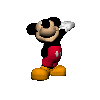
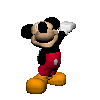
cleanup and more fixes

Changed region(s): [[0.21, 0.15, 0.78, 0.96], [0.57, 0.18, 0.6, 0.21], [0.54, 0.15, 0.57, 0.18]]

diff --git a/tools/sundae/sundae.js b/tools/sundae/sundae.js
@@ -232,26 +232,30 @@ var sundae = {};
             var cCtx = c.getContext('2d');
             var cPix = cCtx.createImageData(c.width, c.height);
             var len = bPix.length;
-            var row = 400;
+            
             var col = 0;
-            for (var j=0; j < len; j+=4,col+=4){
-                if (Math.abs(bPix[len+col-row] - aPix[j]) < valueEpsilon  &&
-                    Math.abs(bPix[len+col-row + 1] - aPix[j+ 1]) < valueEpsilon &&
-                    Math.abs(bPix[len+col-row + 2] - aPix[j + 2]) < valueEpsilon &&
-                    Math.abs(bPix[len+col-row + 3] - aPix[j + 3]) < valueEpsilon){
-                    cPix.data[j] = cPix.data[j+1] = cPix.data[j+2] = cPix.data[j+3] = 0;
-                } //Pixel difference in c
-                else{
-                    cPix.data[j] = 255;
-                    cPix.data[j+1] = cPix.data[j+2] = 0;
-                    cPix.data[j+3] = 255;
-                    failed = true;                 
-                    pixelsOff++;
-                }
-                if(col == 400){col = 0;row += 400;}                             
+            var row = (4 * c.width * c.height) - (4 * c.width);
+            
+            for (var j = 0; j < len; j += 4, col+=4){
+              if(col === 4 * c.width){
+                col = 0;
+                row -= 4 * c.width;
+              }
+              if (Math.abs(bPix[row+col] - aPix[j]) < valueEpsilon  &&
+                  Math.abs(bPix[row+col + 1] - aPix[j+ 1]) < valueEpsilon &&
+                  Math.abs(bPix[row+col + 2] - aPix[j + 2]) < valueEpsilon &&
+                  Math.abs(bPix[row+col + 3] - aPix[j + 3]) < valueEpsilon){
+                  cPix.data[j] = cPix.data[j+1] = cPix.data[j+2] = cPix.data[j+3] = 0;
+              } //Pixel difference in c
+              else{
+                  cPix.data[j] = 255;
+                  cPix.data[j+1] = cPix.data[j+2] = 0;
+                  cPix.data[j+3] = 255;
+                  failed = true;
+              }
             }
             //Display pixel difference in _c
-            if(pixelsOff >= 2){
+            if(failed){
                 cCtx.putImageData(cPix, 0, 0);
             }
             else{
@@ -321,3 +325,4 @@ var sundae = {};
         }
     } catch(e) {}
 })(window);
+

diff --git a/tools/sundae/resources/tests.js b/tools/sundae/resources/tests.js
@@ -3,16 +3,6 @@
 		"test":
     [
       {
-        "name": "user shader",
-        "dependancyURL": ["../../mjs.js",
-                          "../../psapi.js",
-                          "../../parsers/asc.js",
-                          "resources/user_shader/user_shader.js"],
-        "referenceImageURL": "resources/user_shader/mickey_lit.png",
-        "run": {"src": "resources/user_shader/test.js", "func": "start" }
-      },
-
-      {
         "name": "only verts",
         "dependancyURL": ["../../mjs.js",
                           "../../psapi.js",
@@ -29,12 +19,13 @@
         "run": {"src": "resources/acorn_unlit.js", "func": "start" }
       },
       {
-        "name": "2",
+        "name": "user shader",
         "dependancyURL": ["../../mjs.js",
                           "../../psapi.js",
-                          "../../parsers/asc.js"],
-        "referenceImageURL": "resources/acorn_unlit.png",
-        "run": {"src": "resources/acorn_unlit.js", "func": "start" }
+                          "../../parsers/asc.js",
+                          "resources/user_shader/user_shader.js"],
+        "referenceImageURL": "resources/user_shader/mickey_lit.png",
+        "run": {"src": "resources/user_shader/test.js", "func": "start" }
       }
     ]
   }]

diff --git a/tools/sundae/resources/user_shader/test.js b/tools/sundae/resources/user_shader/test.js
@@ -7,7 +7,7 @@ function start(cvs){
     ps.uniformi("reflection", false);
     ps.uniformf("lightPos", [0, 50, 10]);
     ps.uniformf("uReflection", [1, 1, 1, 1]);
-    ps.translate(0, 10, -80);
+    ps.translate(0, 0, -70);
     ps.render(pointCloud);
     if(pointCloud.status === 3){
       ps.onRender = function(){};
